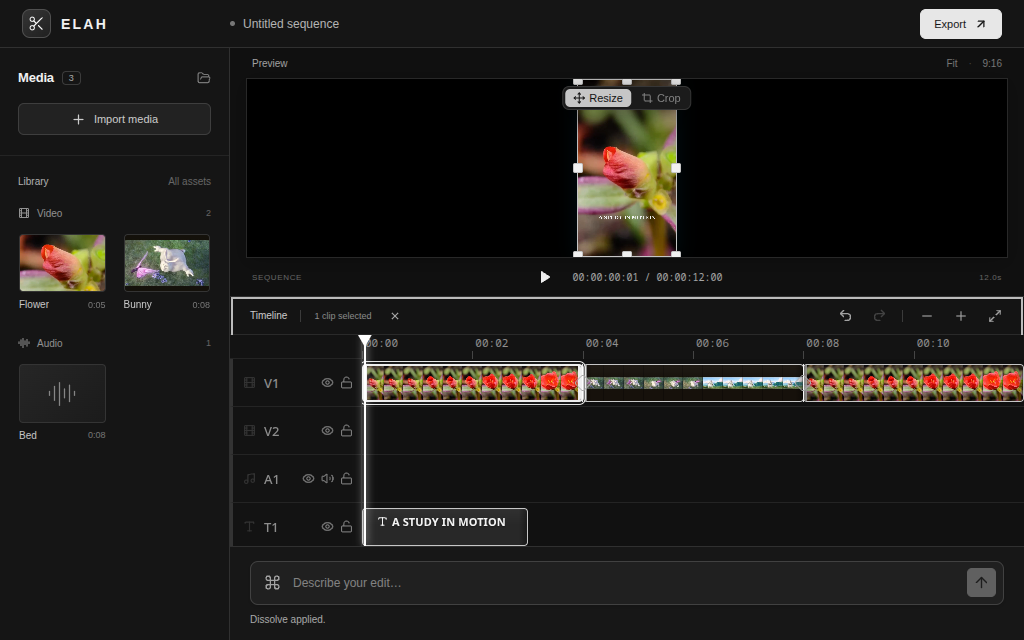
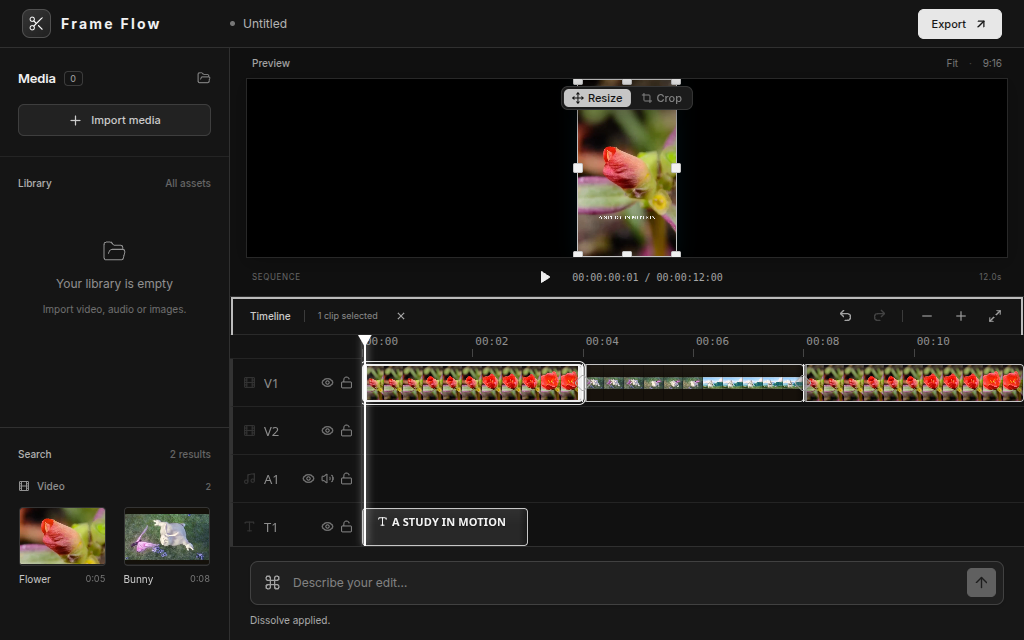
feat(editor): name Frame Flow and start the library empty
The header, title, and docs call the product Frame Flow. The GitHub repo slug stays hackday-elah. On load the media panel is empty. Media shows up from upload, or from search and find-similar hits. Those hits still register so a place command can use them.

diff --git a/src/App.tsx b/src/App.tsx
@@ -53,7 +53,6 @@ import { canExportMp4, exportErrorLine, exportMp4 } from './host/exportMp4.ts'
 import { clipStatus } from './host/statusLine.ts'
 import {
   listLibraryAssets,
-  registerAssets,
   type LibraryAsset,
 } from './host/library.ts'
 import { ensureImported, importLocalFiles } from './host/media.ts'
@@ -71,7 +70,6 @@ import {
   commandErrorLine,
   commandStatusLine,
   findSimilar,
-  loadLibrary,
   runCommand,
   similarErrorLine,
 } from './sense/client.ts'
@@ -109,7 +107,6 @@ function EditorShell() {
   usePreviewOverlayBounds(previewRef)
   const clips = useTracksStore((state) => state.clips)
   const [library, setLibrary] = useState<LibraryAsset[]>([])
-  const [libraryReady, setLibraryReady] = useState(false)
   const [results, setResults] = useState<LibraryAsset[] | null>(null)
   const [readyIds, setReadyIds] = useState<Map<string, string>>(() => new Map())
   const readyRef = useRef<Map<string, string>>(new Map())
@@ -134,19 +131,6 @@ function EditorShell() {
     window.addEventListener('keydown', onKey, true)
     return () => window.removeEventListener('keydown', onKey, true)
   }, [engine])
-  useEffect(() => {
-    let live = true
-    void loadLibrary().then((items) => {
-      if (!live) return
-      registerAssets(items)
-      setLibrary(items)
-      setLibraryReady(true)
-    })
-    return () => {
-      live = false
-    }
-  }, [])
-
   useEffect(() => {
     reconcileClipVaults(engine)
   }, [clips, engine])
@@ -413,13 +397,11 @@ function EditorShell() {
           <span className="brand-mark">
             <Scissors size={17} strokeWidth={1.5} />
           </span>
-          <span>
-            ELAH<span className="brand-detail">EDITOR</span>
-          </span>
+          <span>Frame Flow</span>
         </div>
         <div className="project-name">
           <span className="project-dot" />
-          Untitled sequence
+          Untitled
         </div>
         <div className="app-actions">
           <span className="project-format">
@@ -431,7 +413,6 @@ function EditorShell() {
       <MediaPanel
         library={library}
         results={results}
-        libraryReady={libraryReady}
         readyIds={readyIds}
         onPlace={(asset) => void onPlace(asset)}
         onPrepare={(asset) => void ensureImported(asset)}
@@ -466,7 +447,7 @@ function EditorShell() {
           <span className="transport-format">SEQUENCE</span>
           <Transport />
           <span className="transport-format">
-            {totalFrames > 0 ? `${(totalFrames / FPS).toFixed(1)}s` : '—'}
+            {totalFrames > 0 ? `${(totalFrames / FPS).toFixed(1)}s` : '0.0s'}
           </span>
         </div>
       </section>

diff --git a/src/sense/client.ts b/src/sense/client.ts
@@ -1,5 +1,4 @@
 import { registerAssets, type LibraryAsset, type LibraryKind } from '../host/library.ts'
-import { fallbackLibrary } from '../host/samples.ts'
 import { failureStatusLine, isFetchFailure } from '../host/statusLine.ts'
 import type { Op, TimelineSnapshot } from '../host/types.ts'
 
@@ -17,20 +16,7 @@ export interface CommandResult {
   opsLabel: string
 }
 
-const LIBRARY_TIMEOUT_MS = 2500
 const COMMAND_TIMEOUT_MS = 120_000
-
-export async function loadLibrary(): Promise<LibraryAsset[]> {
-  try {
-    const response = await fetch('/api/library', { signal: AbortSignal.timeout(LIBRARY_TIMEOUT_MS) })
-    if (!response.ok) return fallbackLibrary()
-    const body: unknown = await response.json()
-    const items = parseAssetList(readItems(body))
-    return items.length > 0 ? items : fallbackLibrary()
-  } catch {
-    return fallbackLibrary()
-  }
-}
 
 export async function runCommand(
   command: string,
@@ -132,12 +118,6 @@ function noteFrom(body: Record<string, unknown>): string {
   if (typeof body.note === 'string' && body.note.trim()) return body.note.trim()
   if (typeof body.detail === 'string' && body.detail.trim()) return body.detail.trim()
   return ''
-}
-
-function readItems(body: unknown): unknown[] {
-  if (!body || typeof body !== 'object') return []
-  const items = (body as { items?: unknown }).items
-  return Array.isArray(items) ? items : []
 }
 
 function flattenHits(body: Record<string, unknown>): LibraryAsset[] {

diff --git a/src/MediaPanel.tsx b/src/MediaPanel.tsx
@@ -18,7 +18,6 @@ const KINDS: { kind: LibraryKind; label: string }[] = [
 interface MediaPanelProps {
   library: readonly LibraryAsset[]
   results: readonly LibraryAsset[] | null
-  libraryReady: boolean
   readyIds: ReadonlyMap<string, string>
   onPlace: (asset: LibraryAsset) => void
   onPrepare: (asset: LibraryAsset) => void
@@ -28,7 +27,6 @@ interface MediaPanelProps {
 export default function MediaPanel({
   library,
   results,
-  libraryReady,
   readyIds,
   onPlace,
   onPrepare,
@@ -70,14 +68,7 @@ export default function MediaPanel({
           <h2>
             Library <span>All assets</span>
           </h2>
-          {!libraryReady && (
-            <div className="media-loading" role="status">
-              <span />
-              <span />
-              <p>Loading library…</p>
-            </div>
-          )}
-          {libraryReady && library.length === 0 && (
+          {library.length === 0 && (
             <div className="media-empty">
               <FolderOpen size={25} strokeWidth={1} />
               <p>Your library is empty</p>

diff --git a/src/index.css b/src/index.css
@@ -441,22 +441,6 @@ p {
   color: #707070;
   font-size: 10px;
 }
-.media-loading {
-  display: grid;
-  grid-template-columns: 1fr 1fr;
-  gap: 10px;
-}
-.media-loading > span {
-  height: 68px;
-  border-radius: 5px;
-  background: #222;
-  animation: breathe 1.5s ease infinite;
-}
-.media-loading > p {
-  grid-column: 1 / -1;
-  font-size: 10px;
-  color: #888;
-}
 .stage {
   grid-column: 2;
   grid-row: 2;
@@ -913,11 +897,6 @@ input[type='range'] {
 @keyframes spin {
   to {
     transform: rotate(360deg);
-  }
-}
-@keyframes breathe {
-  50% {
-    opacity: 0.45;
   }
 }
 @media (min-width: 1600px) {

diff --git a/index.html b/index.html
@@ -5,7 +5,7 @@
     <link rel="icon" type="image/svg+xml" href="/favicon.svg" />
     <meta name="viewport" content="width=device-width, initial-scale=1.0" />
     <meta name="color-scheme" content="dark" />
-    <title>Editor</title>
+    <title>Frame Flow</title>
   </head>
   <body>
     <div id="root"></div>

diff --git a/AGENTS.md b/AGENTS.md
@@ -1,6 +1,6 @@
 # AGENTS.md
 
-Map of this repo for someone changing it cold. The product brief is [plan.md](plan.md). Behavior below matches the code on `main`.
+Map of this repo for someone changing it cold. The product name is Frame Flow. The GitHub repo slug stays `hackday-elah`. Package paths such as `@elah/editor` stay as they are. The product brief is [plan.md](plan.md). Behavior below matches the code on `main`.
 
 ## Architecture
 
@@ -28,10 +28,10 @@ Vault: ~/HackDayVault   (SENSE_VAULT)
 | `src/host/applyOps.ts` | Applies `ops` on `TimelineEngine` as one undo step |
 | `src/host/exportMp4.ts`, `src/host/statusLine.ts` | MP4 export and status-line text |
 | `src/host/place.ts`, `rotate.ts`, `orient.ts` | Place, free-angle rotate, no auto upright flip |
-| `src/sense/client.ts` | `POST /api/v1/command`, `/api/similar`, `GET /api/library` |
+| `src/sense/client.ts` | `POST /api/v1/command` and `/api/similar`. The host does not call `GET /api/library` on boot. |
 | `sense/planner.py` | Tool loop and planner fallbacks |
 | `sense/catalog.py`, `sense/retrieve.py` | Vault index, search, similar |
-| `public/samples/` | Flower, Bunny, Bed when the vault catalog is empty |
+| `public/samples/` | Flower, Bunny, Bed for the worker when the vault catalog is empty. The panel does not show them on boot. |
 
 `npm run dev` is `vite --host 0.0.0.0 --port 43123 --strictPort`. `npm run sense` is uvicorn on `127.0.0.1:8765`. The proxy is in `vite.config.ts`: `/api` rewrites to the sense origin.
 
@@ -73,7 +73,7 @@ Host ops (`coerceOps` / `applyOps`): `set_stage`, `add_clip`, `add_text`, `trim`
 
 `needsUprightFlip` in `src/host/orient.ts` returns false. Do not auto-apply `scaleY = -1` on place.
 
-Find similar is the timeline context menu, then `POST /similar` with `vault_id`. `upload/*` ids are browser blobs. The worker returns a note and does not invent cosine scores. Empty vault: the panel shows `public/samples` (Flower `flower.mp4`, Bunny `bunny.mp4`, Bed `bed.m4a`).
+Find similar is the timeline context menu, then `POST /similar` with `vault_id`. `upload/*` ids are browser blobs. The worker returns a note and does not invent cosine scores. The Media panel starts empty. Upload, search, and find-similar are how media shows up. `search_vault` still reads the disk vault. When that vault is missing or empty, the worker can still search `public/samples` (Flower `flower.mp4`, Bunny `bunny.mp4`, Bed `bed.m4a`). Those files are not copied into the panel on boot.
 
 ## Product UI
 

diff --git a/README.md b/README.md
@@ -1,6 +1,6 @@
-# Editor
+# Frame Flow
 
-A monochrome browser video editor. The media library sits on the left. Preview and the elah timeline sit on the right, with one command field under the timeline. There is no chat transcript.
+Frame Flow is a monochrome browser video editor. The GitHub repo slug stays `hackday-elah`. The media library sits on the left. Preview and the timeline sit on the right, with one command field under the timeline. There is no chat transcript. Package imports such as `@elah/editor` keep their names.
 
 Search, similar, frame grabs, and transcripts run in the sense worker. The planner tries DigitalOcean Gemma, then Gemini API Gemma, then Vertex MaaS, then local Gemma E4B. Timeline edits come back as `ops`. The host applies them with `applyOps` into `TimelineEngine`. See [AGENTS.md](AGENTS.md) for the contract.
 
@@ -141,7 +141,8 @@ The worker does not invent ids.
 - `vault_index_*.npz` is used only when it has an id array and an embedding matrix that line up. `GET /health` reports `npz_keys` and `npz_error`.
 - Query embeddings and Parakeet come from the MLX worker. If that worker is down, search matches names and the status line says embeddings are offline. Cosine scores are not faked.
 - If DigitalOcean, Gemini, Vertex, and local E4B are all unavailable, `planner` is `offline`, `ops` stays empty, and the status line says the planner is not loaded. No edit ops are synthesized.
-- If the vault is missing or empty, the panel shows three files from `public/samples` as ordinary library items: Flower (`flower.mp4`), Bunny (`bunny.mp4`), Bed (`bed.m4a`). They are not added when the vault has its own catalog.
+- The Media panel starts empty. Upload adds files. Search and find-similar show hits as results, and those hits can be placed. The panel does not list the vault on boot.
+- `public/samples` still holds Flower (`flower.mp4`), Bunny (`bunny.mp4`), and Bed (`bed.m4a`) for the worker when the vault folder is missing or empty. A search can return them. They are not seeded into the panel.
 
 Sample sources:
 

diff --git a/plan.md b/plan.md
@@ -1,4 +1,6 @@
-# Hack Day Kochi 2026 — Team Ares plan
+# Frame Flow
+
+Hack Day Kochi 2026, Team Ares. The GitHub repo slug stays `hackday-elah`.
 
 **Repo:** [flyme2mars/hackday-elah](https://github.com/flyme2mars/hackday-elah) (MIT)  
 **Local clone:** `~/code/projects/hackday-elah` on Mac (user `apple`)  
@@ -10,7 +12,7 @@
 
 ## 1. What we are building
 
-A monochrome browser video editor where a **single agent command field** (not a chat) drives vault search, find-similar, and timeline edits. Preview + elah timeline sit on the right. Media library (Video / Audio / Image) sits on the left.
+Frame Flow is a monochrome browser video editor where a **single agent command field** (not a chat) drives vault search, find-similar, and timeline edits. Preview and the timeline sit on the right. The media library (Video / Audio / Image) sits on the left. The panel starts empty.
 
 Natural language like “trim this clip to 2 seconds” or “find clips like this beach shot” becomes tool calls. The planner prefers **DigitalOcean Gemma 4**, then Gemini, then Vertex, then **local Gemma E4B** on the Mac so the demo never dies on rate limits.
 
@@ -77,7 +79,7 @@ Timeline edits return as `ops` and are applied in the browser via `applyOps` int
 | `sense/app.py` | FastAPI routes |
 | `sense/planner.py` | Gemma tool loop + fallbacks |
 | `sense/catalog.py`, `retrieve.py` | Vault index + search |
-| `public/samples/` | Fallback Flower / Bunny / Bed when vault empty |
+| `public/samples/` | Flower / Bunny / Bed for the worker when the vault is empty. The panel does not show them on boot. |
 | `.env.example` | Documented env vars (no secrets committed) |
 | `.gemini.env` | **Local only, gitignored.** Never commit. |
 | `.do.env` | **Local only, gitignored.** `DO_MODEL_KEY`. Never commit. |

diff --git a/sense/README.md b/sense/README.md
@@ -68,7 +68,7 @@ If those routes differ in the MLX repo, point the env vars at the real ones. A m
 - Otherwise the worker scans media files and uses the path relative to the vault as the id.
 - Embeddings, when the npz lines up with those ids, rank search and similar. The query vector still has to come from the MLX embed route.
 
-When the vault folder is missing or empty, the editor shows `public/samples` (Flower, Bunny, Bed). Those ids are the filenames. They are not mixed into a non-empty vault.
+When the vault folder is missing or empty, search can still return `public/samples` (Flower, Bunny, Bed). Those ids are the filenames. They are not mixed into a non-empty vault. The Media panel does not list them on boot.
 
 ## HTTP
 
